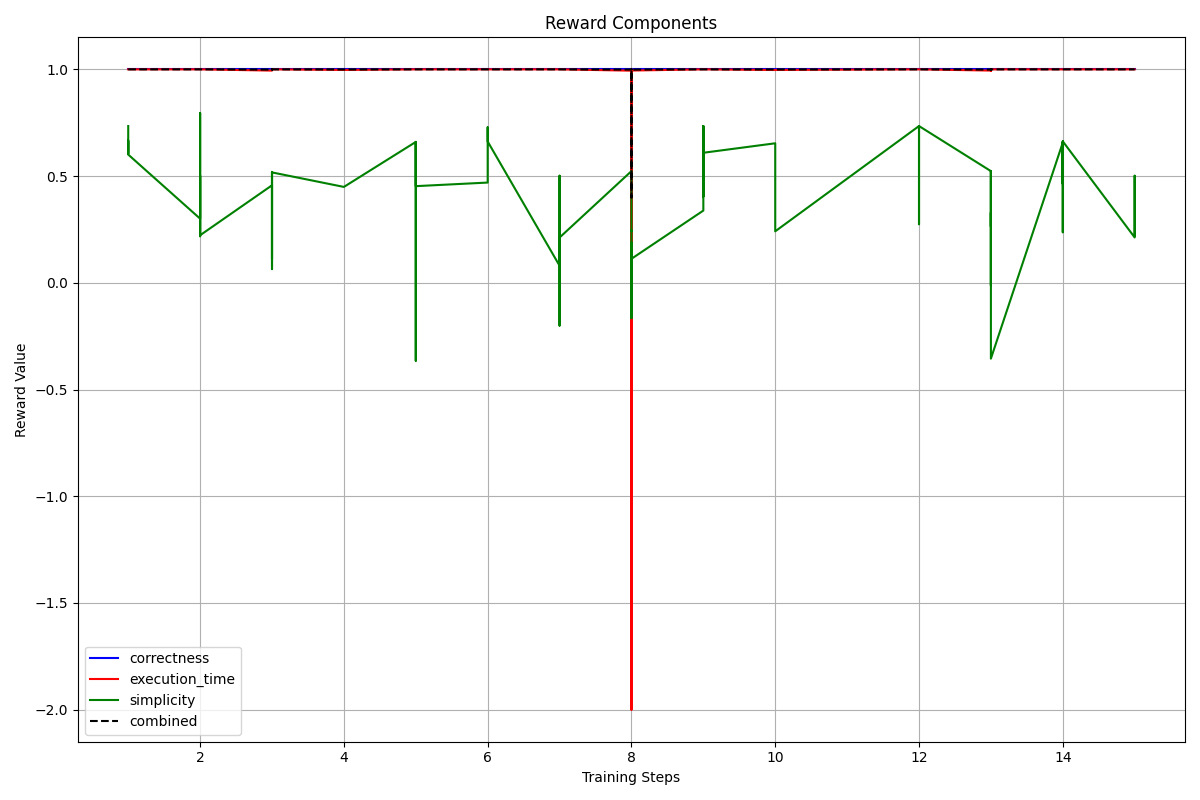
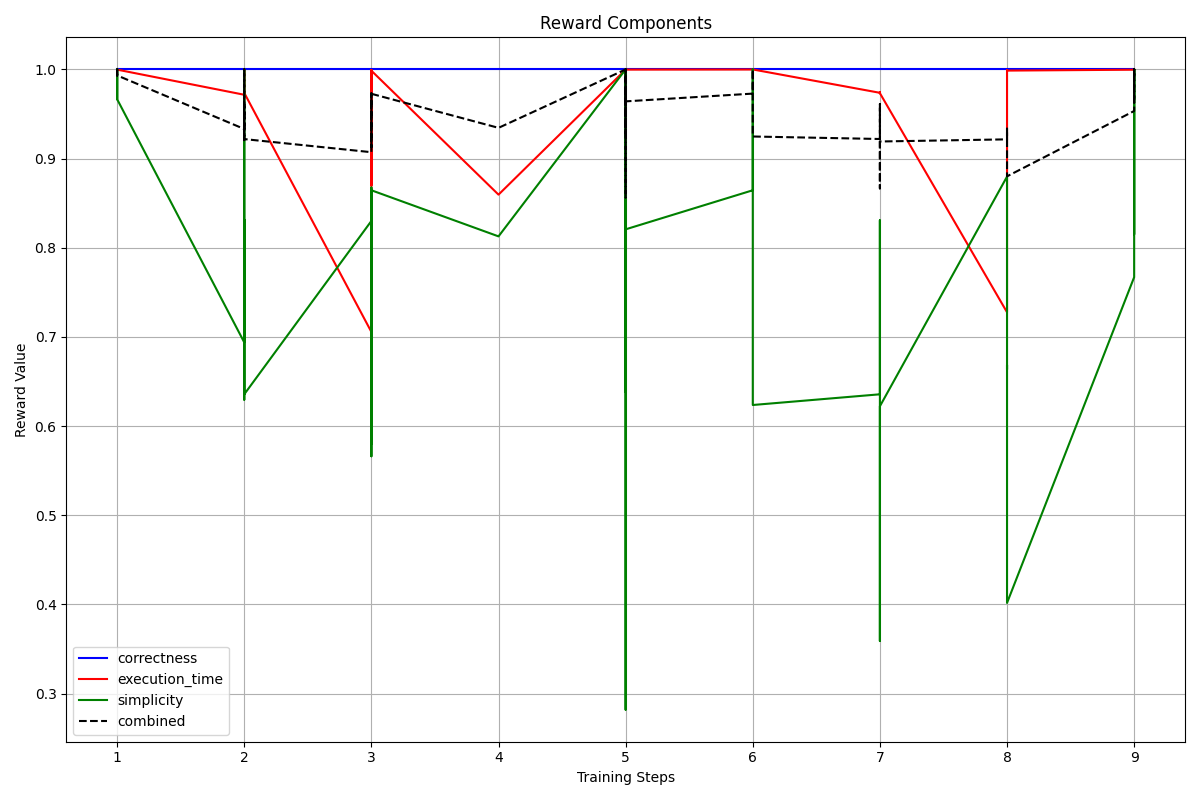
update logs

diff --git a/logs/README.md b/logs/README.md
@@ -1,4 +1,7 @@
 # 实验结果记录 📊
+## 实验链接
+logs1: https://wandb.ai/xiaobei_-mini/code-improvement-agent/runs/ycqj3amb?nw=nwuserxiaobei_
+logs2: https://wandb.ai/xiaobei_-mini/code-improvement-agent/runs/5tkpvsqu?nw=nwuserxiaobei_
 
 ## 实验概览
 
